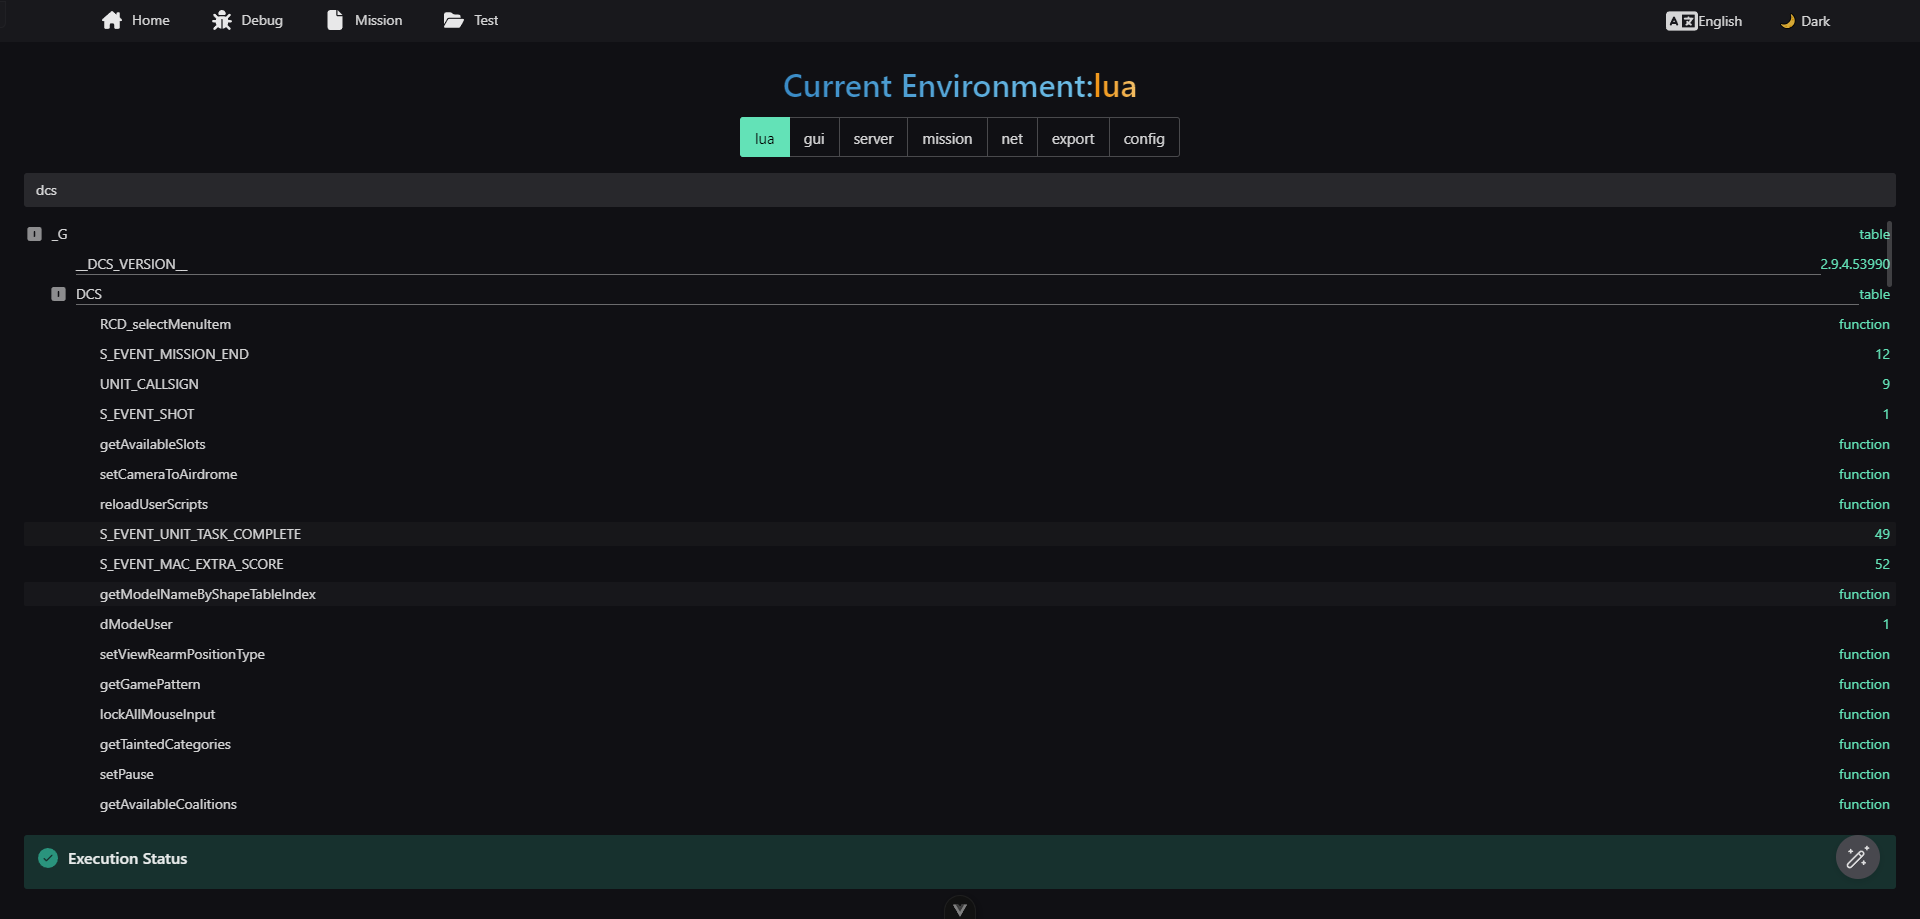
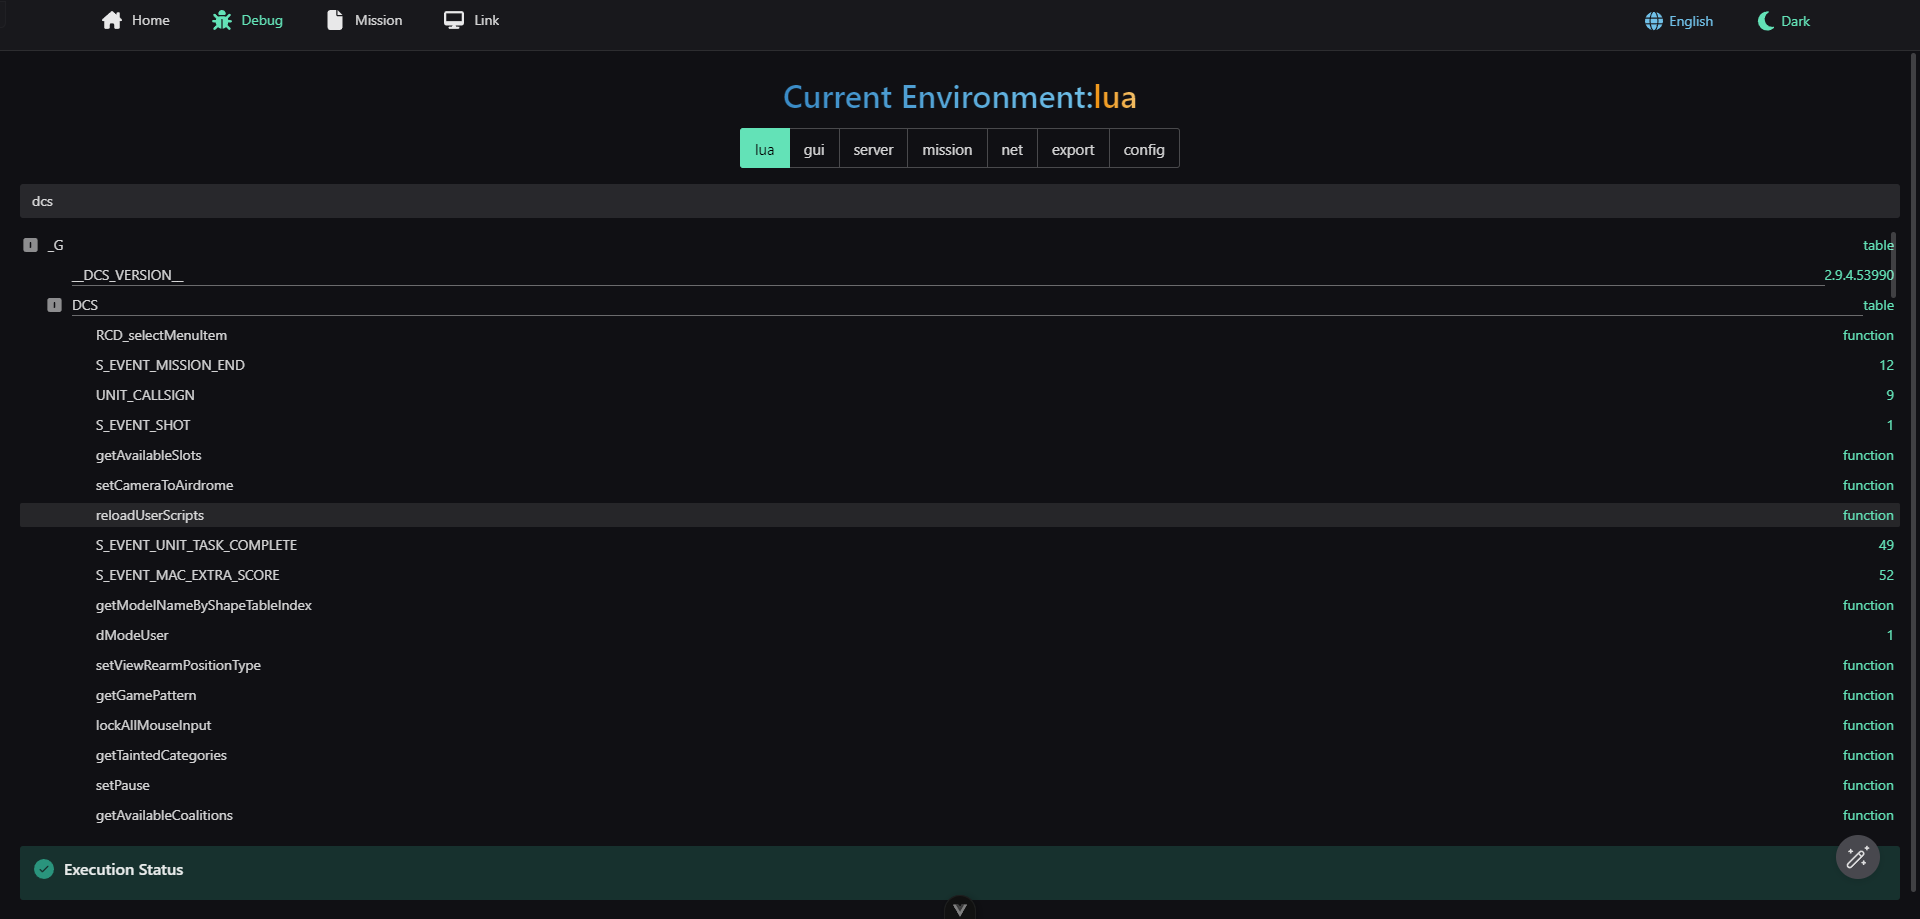
feat: ✨ add Related Resources Navigation

diff --git a/packages/client/src/layout/components/Header.vue b/packages/client/src/layout/components/Header.vue
@@ -43,6 +43,8 @@ function flattenRoutes(routes: RouteRecordRaw[]): RouteRecordRaw[] {
   return result
 }
 function renderIcon(icon: Component) {
+  if (!icon)
+    return () => ''
   return () => h(NIcon, null, { default: () => h(icon) })
 }
 function renderLabel(label: unknown, path: string) {
@@ -84,12 +86,17 @@ const menuOptions = generateMenuData(flatRoutes)
     <n-menu v-model:value="activeKey" accordion mode="horizontal" :options="menuOptions" />
     <div flex items-center hidden />
     <nav flex items-center justify-end>
-      <n-button size="small" quaternary class="nav-picker mx-4" @click="handleLocaleUpdate">
-        <div class="i-fa6-solid:language w-32px h-32px" />
+      <n-button quaternary type="info" @click="handleLocaleUpdate">
+        <template #icon>
+          <div class="i-fa6-solid:globe " />
+        </template>
         {{ $t(`menu.${menuStore.locale}`) }}
       </n-button>
-      <n-button size="small" quaternary class="nav-picker" @click="handleThemeUpdate">
-        {{ menuStore.theme === 'dark' ? '🌙' : '☀' }}
+      <n-button mx-4 quaternary type="primary" @click="handleThemeUpdate">
+        <template #icon>
+          <div v-if="menuStore.theme === 'light'" class="i-fa6-solid:sun " />
+          <div v-else class="i-fa6-solid:moon " />
+        </template>
         {{ $t(`menu.${menuStore.theme}`) }}
       </n-button>
       <!-- <p>

diff --git a/packages/client/src/router/modules/frame.ts b/packages/client/src/router/modules/frame.ts
@@ -1,0 +1,50 @@
+import type { RouteRecordRaw } from 'vue-router'
+import Fa6SolidDesktop from '~icons/fa6-solid/desktop'
+import Layout from '@/layout/Index.vue'
+
+const IFrame = () => import('@/views/iframe/Index.vue')
+
+const routes: Array<RouteRecordRaw> = [
+  {
+    path: '/frame',
+    name: 'Frame',
+    redirect: '/frame/typescripttolua',
+    component: Layout,
+    meta: {
+      title: 'link',
+      sort: 8,
+      icon: Fa6SolidDesktop,
+    },
+    children: [
+      {
+        path: 'typescripttolua',
+        name: 'typescripttolua',
+        meta: {
+          title: 'TypeScriptToLua',
+          frameSrc: 'https://typescripttolua.github.io/play/',
+        },
+        component: IFrame,
+      },
+      {
+        path: 'naive',
+        name: 'frame-naive',
+        meta: {
+          title: 'NaiveUi',
+          frameSrc: 'https://www.naiveui.com',
+        },
+        component: IFrame,
+      },
+      {
+        path: 'icones',
+        name: 'frame-icones',
+        meta: {
+          title: 'icones',
+          frameSrc: 'https://icones.js.org',
+        },
+        component: IFrame,
+      },
+    ],
+  },
+]
+
+export default routes

diff --git a/packages/client/src/views/iframe/Index.vue b/packages/client/src/views/iframe/Index.vue
@@ -1,0 +1,53 @@
+<script lang="ts" setup>
+const currentRoute = useRoute()
+const loading = ref(false)
+const frameRef = ref<HTMLIFrameElement | null>(null)
+const frameSrc = ref<string>('')
+
+if (unref(currentRoute.meta)?.frameSrc) {
+  frameSrc.value = unref(currentRoute.meta)?.frameSrc as string
+}
+
+function hideLoading() {
+  loading.value = false
+}
+
+function init() {
+  nextTick(() => {
+    const iframe = unref(frameRef)
+    if (!iframe)
+      return
+    const _frame = iframe as any
+    if (_frame.attachEvent) {
+      _frame.attachEvent('onload', () => {
+        hideLoading()
+      })
+    }
+    else {
+      iframe.onload = () => {
+        hideLoading()
+      }
+    }
+  })
+}
+
+onMounted(() => {
+  loading.value = true
+  init()
+})
+</script>
+
+<template>
+  <n-spin :show="loading">
+    <iframe ref="frameRef" :src="frameSrc" />
+  </n-spin>
+</template>
+
+<style lang="scss" scoped>
+iframe {
+  display: block;
+  width: 100%;
+  height: 100vh;
+  border: 0;
+}
+</style>

diff --git a/packages/client/src/router/index.ts b/packages/client/src/router/index.ts
@@ -1,9 +1,24 @@
-import { createRouter, createWebHistory } from 'vue-router'
-import routes from './routes'
+import { type RouteRecordRaw, createRouter, createWebHistory } from 'vue-router'
+
+const modules = import.meta.glob<IModuleType>('./modules/**/*.ts', { eager: true })
+
+const routeModuleList: RouteRecordRaw[] = Object.keys(modules).reduce((list: RouteRecordRaw[], key) => {
+  const mod = modules[key].default ?? {}
+  const modList = Array.isArray(mod) ? [...mod] : [mod]
+  return [...list, ...modList]
+}, [])
+
+function sortRoute(a: RouteRecordRaw, b: RouteRecordRaw) {
+  return (a.meta?.sort as number | undefined ?? 0) - (b.meta?.sort as number | undefined ?? 0)
+}
+
+routeModuleList.sort(sortRoute)
+
+export const constantRouter: RouteRecordRaw[] = routeModuleList
 
 const router = createRouter({
   history: createWebHistory(import.meta.env.BASE_URL),
-  routes,
+  routes: constantRouter,
 })
 
 export default router

diff --git a/packages/client/src/router/modules/routes.ts b/packages/client/src/router/modules/routes.ts
@@ -3,7 +3,6 @@ import Fa6SolidBug from '~icons/fa6-solid/bug'
 import Fa6SolidCode from '~icons/fa6-solid/code'
 import Fa6SolidLaptopCode from '~icons/fa6-solid/laptop-code'
 import Fa6SolidFile from '~icons/fa6-solid/file'
-import Fa6SolidFolderOpen from '~icons/fa6-solid/folder-open'
 import Fa6SolidGlobe from '~icons/fa6-solid/globe'
 import Layout from '@/layout/Index.vue'
 
@@ -53,12 +52,12 @@ const routes = [
       },
     ],
   },
-  {
-    path: '/test',
-    name: 'test',
-    meta: { title: 'test', icon: Fa6SolidFolderOpen },
-    component: () => import('@/views/Test.vue'),
-  },
+  // {
+  //   path: '/test',
+  //   name: 'test',
+  //   meta: { title: 'test', icon: Fa6SolidFolderOpen },
+  //   component: () => import('@/views/Test.vue'),
+  // },
 ]
 
 export default routes

diff --git a/packages/client/src/layout/Index.vue b/packages/client/src/layout/Index.vue
@@ -1,18 +1,22 @@
 <script lang="ts" setup>
-const layoutScrollbarProps = {
-  containerClass: 'document-scroll-container',
-  size: 10,
-}
+
 </script>
 
 <template>
-  <n-layout :native-scrollbar="false" :scrollbar-props="layoutScrollbarProps" h-full>
-    <n-layout-header>
+  <n-layout h-full>
+    <n-layout-header bordered>
       <Header />
     </n-layout-header>
-    <n-layout-content mx-6>
+    <n-layout-content embedded content-style="padding: 10px 20px;" class="content-scroll" :native-scrollbar="false">
       <Main />
     </n-layout-content>
     <n-back-top :right="100" />
   </n-layout>
 </template>
+
+<style scoped>
+.content-scroll {
+  height: calc(100vh - 64px);
+  overflow-y: auto;
+}
+</style>

diff --git a/packages/client/src/views/Home.vue b/packages/client/src/views/Home.vue
@@ -3,8 +3,16 @@ import { net } from '@/utils/model'
 </script>
 
 <template>
-  <div text-center container mx-auto>
-    <h1>{{ $t('home.title') }}</h1>
+  <div text-center container mx-auto mb-4>
+    <n-gradient-text
+      :size="28" fw-900 :gradient="{
+        deg: 160,
+        from: '#0093E9 0%',
+        to: '#80D0C7 100%',
+      }"
+    >
+      {{ $t('home.title') }}
+    </n-gradient-text>
   </div>
   <n-alert type="info">
     <p v-for="(item, key) in $t('home.info').split('\n')" :key="key">

diff --git a/packages/client/types/global.d.ts b/packages/client/types/global.d.ts
@@ -22,10 +22,13 @@ declare global {
   interface ImportMetaEnv extends ViteEnv {
     __: unknown
   }
+  interface anyObj { [key: string]: any }
 
   declare function parseInt(s: string | number, radix?: number): number
 
   declare function parseFloat(string: string | number): number
 
 }
-interface anyObj { [key: string]: any }
+interface IModuleType {
+  default: Array<RouteRecordRaw> | RouteRecordRaw
+}

diff --git a/packages/client/src/plugins/i18n/locales/zh-CN.ts b/packages/client/src/plugins/i18n/locales/zh-CN.ts
@@ -4,6 +4,7 @@ export default {
     'debug': '调试',
     'mission': '任务',
     'test': '测试',
+    'link': '相关链接',
     'zh-CN': '简体中文',
     'en-US': 'English',
     'dark': '暗黑',

diff --git a/packages/client/src/plugins/i18n/locales/en-US.ts b/packages/client/src/plugins/i18n/locales/en-US.ts
@@ -4,6 +4,7 @@ export default {
     'debug': 'Debug',
     'mission': 'Mission',
     'test': 'Test',
+    'link': 'Link',
     'zh-CN': 'Chinese',
     'en-US': 'English',
     'dark': 'Dark',
